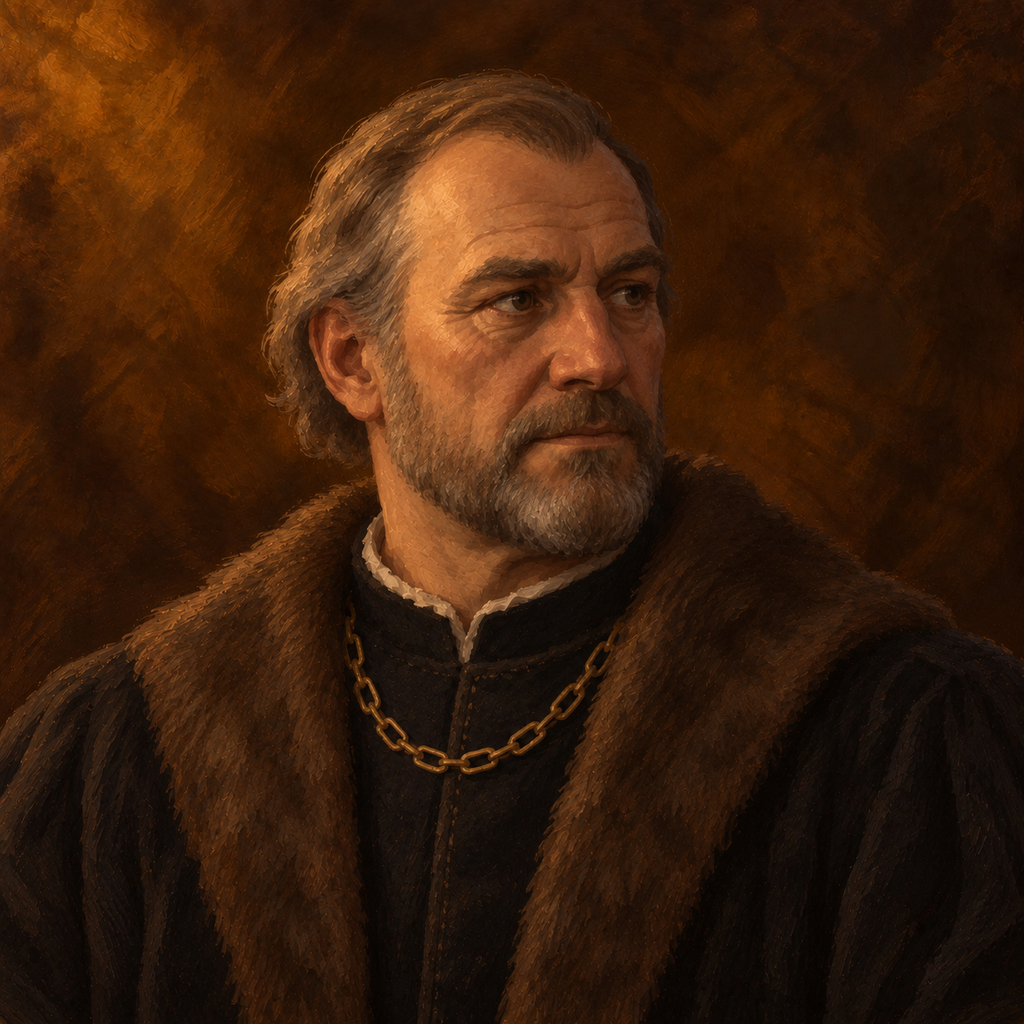
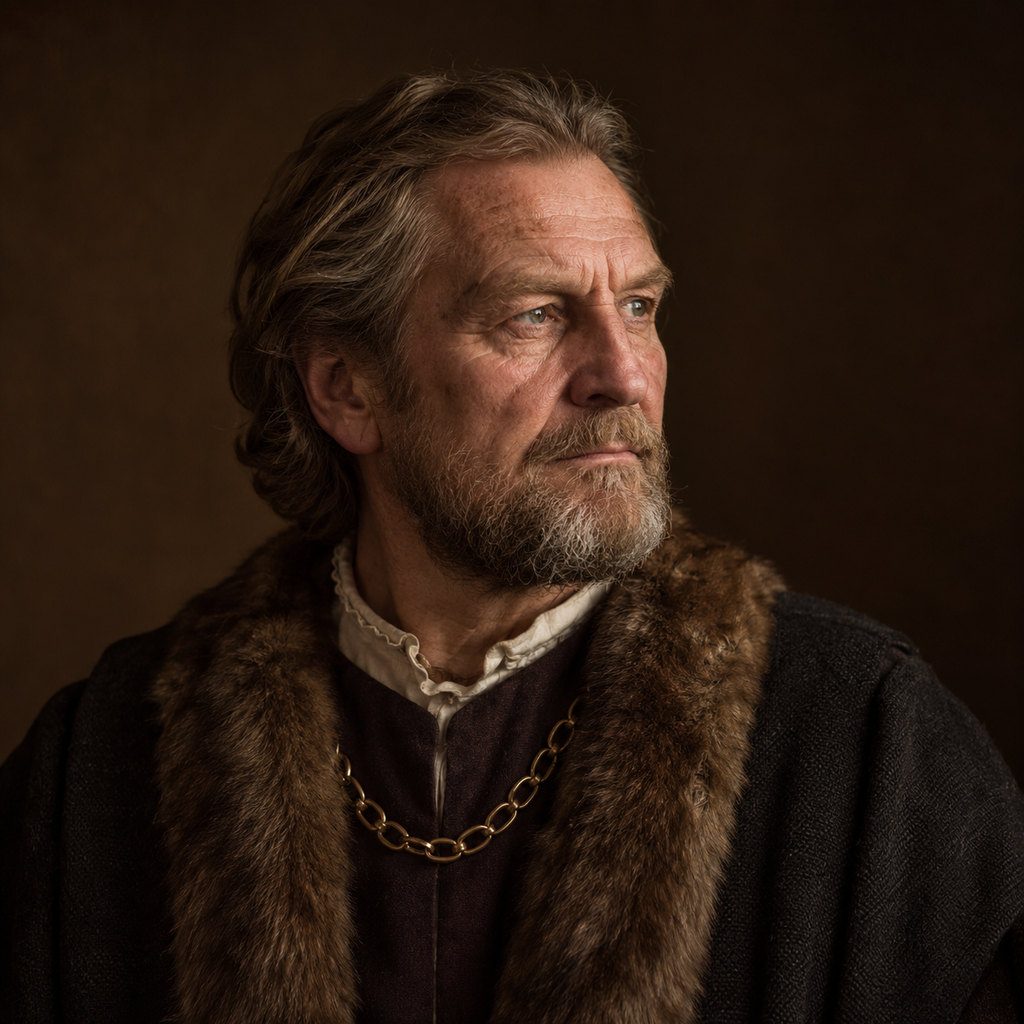
Uusi Erik Tottin perustajakuva fotorealistisena

diff --git a/perustaja/LAHTEET.md b/perustaja/LAHTEET.md
@@ -1,11 +1,11 @@
-# Erik Akselinpoika Tott — havainnekuva
+# Erik Akselinpoika Tott — fotorealistinen havainnekuva
 
-Tilaus: `posti/fable-codex-olavinlinna-perustaja-20261006.md`, commit `1f50128c24faba4c39396974020b5452baf4aad5`. Omistajan tilaus välittyi Päätoimittajalta 6.10.2026.
+Uusintatilaus: posti/sisaltokirjuri-codex-uusinta-fotorealistinen-tott-ja-kappelin-puhujakuvat-20261007.md, osio A, commit88166805075d12d723f9eae9cd7f3766839b5ed4. Puhujakuvien osio B peruttiin commitissa359f69c476eb484862a49243e604fe4e8748531a. Omistajan fotorealismiohje ja lisäys9ec0418c on sovellettu.
 
-Suomen kansallismuseon [Olavinlinnan historia](https://suomenkansallismuseo.fi/kohde/olavinlinna/olavinlinnan-historia/) vahvistaa linnan perustamisen vuonna 1475 sekä tanskalaissyntyisen ritari Erik Akselinpoika Tottin roolin Viipurin käskynhaltijana. Lähde tarkistettu 6.10.2026.
+Suomen kansallismuseon [Olavinlinnan historia](https://suomenkansallismuseo.fi/kohde/olavinlinna/olavinlinnan-historia/) on luettu7.10.2026: tanskalaissyntyinen ritari Erik Akselinpoika Tott perusti linnan1475 ja oli silloin Viipurin käskynhaltija. Kuvatekstissä käytetään tätä titteliä.
 
-Kuva on oma tekoälyllä tuotettu historiallinen havainnekuva Matkakirjalle. Kasvonpiirteet ovat taiteellinen tulkinta, eivät varmennettu aikalaismuotokuva. Noin 60 vuoden ikä, 1470-luvun tumma pohjoismainen ylimysasu, turkiskaulus ja tunnukseton kultaketju noudattavat toimeksiantoa. Ei kruunua, aseita, vaakunaa tai tekstiä.
+Kasvonpiirteet on keksitty eikä henkilöllä ole käytetty muotokuva-,patsas-,näyttelijä- tai muuta kasvoviitettä. Kuva ei ole varmennettu aikalaismuotokuva. Noin60vuoden ikä,1470-luvun tumma pohjoismainen ylimysasu,turkiskaulus ja tunnukseton kultaketju noudattavat toimeksiantoa. Ei kruunua,aseita,vaakunoita tai tekstiä.
 
-Työkalu: Codexin sisäänrakennettu OpenAI image_gen. Maalauksellista tyyliä ja kynttilänvaloa ohjasi Matkakirjan oma uusi kappalaisen kuva; Tottin henkilöhahmo generoitiin erilliseksi. Ei kolmannen osapuolen kuvia tuotantokuvan osana. Alkuperäinen 1254×1254 generointi säilytetään tuotantohakemistossa. Vienti: 1024×1024, sRGB, RGB PNG. Vain koon ja tiedostomuodon tekninen vienti.
+Työkalu: Codexin sisäänrakennettu image_gen, yksi kokonaan uusi fotorealistinen generointi; ei maalauksen tai piirroksen pintaa eikä vanhan kuvan muokkausta. Alkuperäinen1254×1254 säilytetty paikallisessa tuotantokansiossa; tekninen vienti1024×1024sRGB RGB PNG. Description ja Source: Havainnekuva. Tekoälyllä tuotettu, ei valokuva. Vanhat ja uudet alkuperäiset säilyvät.
 
-Päätoimittaja tarkistaa, Linnanrakentaja kytkee perustajaa mainitsevaan linnan esittelyn noin viiden sekunnin kohtaan. Toimitus ei tarkoita varmennettua pelikytkentää tai julkaisua.
+Natiivi,toimituskuva ja480pxesikatselu katsottu. R2-takaisinluku on tavutarkka; manifesti sisältää URL,SHA-256,mitat,promptin ja lähteet. Linnanrakentaja kytkee perustajaa mainitsevan esittelyn noin5sekunnin kohtaan,Päätoimittaja katselmoi. Kytkentää tai julkaisua ei ole varmennettu tässä työssä; PR4050jää auki,eikä Codex mergeä sitä.

diff --git a/posti/codex-fable-perustaja-20261007.md b/posti/codex-fable-perustaja-20261007.md
@@ -1,0 +1,7 @@
+Erik Tottin fotorealistinen uusinta valmis PR #4050:ssa (sama haara ja tiedostonimet).
+1024×1024sRGBPNG, keksityt kasvot,1470-luvun asu,Viipurin käskynhaltija; museolähde tarkistettu7.10.2026.
+Description/Source ja manifesti: Havainnekuva. Tekoälyllä tuotettu, ei valokuva.
+SHA-256 80371b1fcf89736741b17e17db42a51eff03b1952bb6d5bcab81b94efc246c20; R2-takaisinluku HTTP200/MIME/CORS/tavut täsmäävät.
+5274testiä läpi,0virhettä,19ohitettu; muut portit läpi paitsi pohjan Naundorff/Delft-nimiölimitys.
+Kappelin ja muiden puhujakuvien uusinnat peruttu,ei toimituksia.
+PR4050jää auki,katselmus ja pelikytkentä odottavat; ei mergeä,versiota tai julkaisua.
